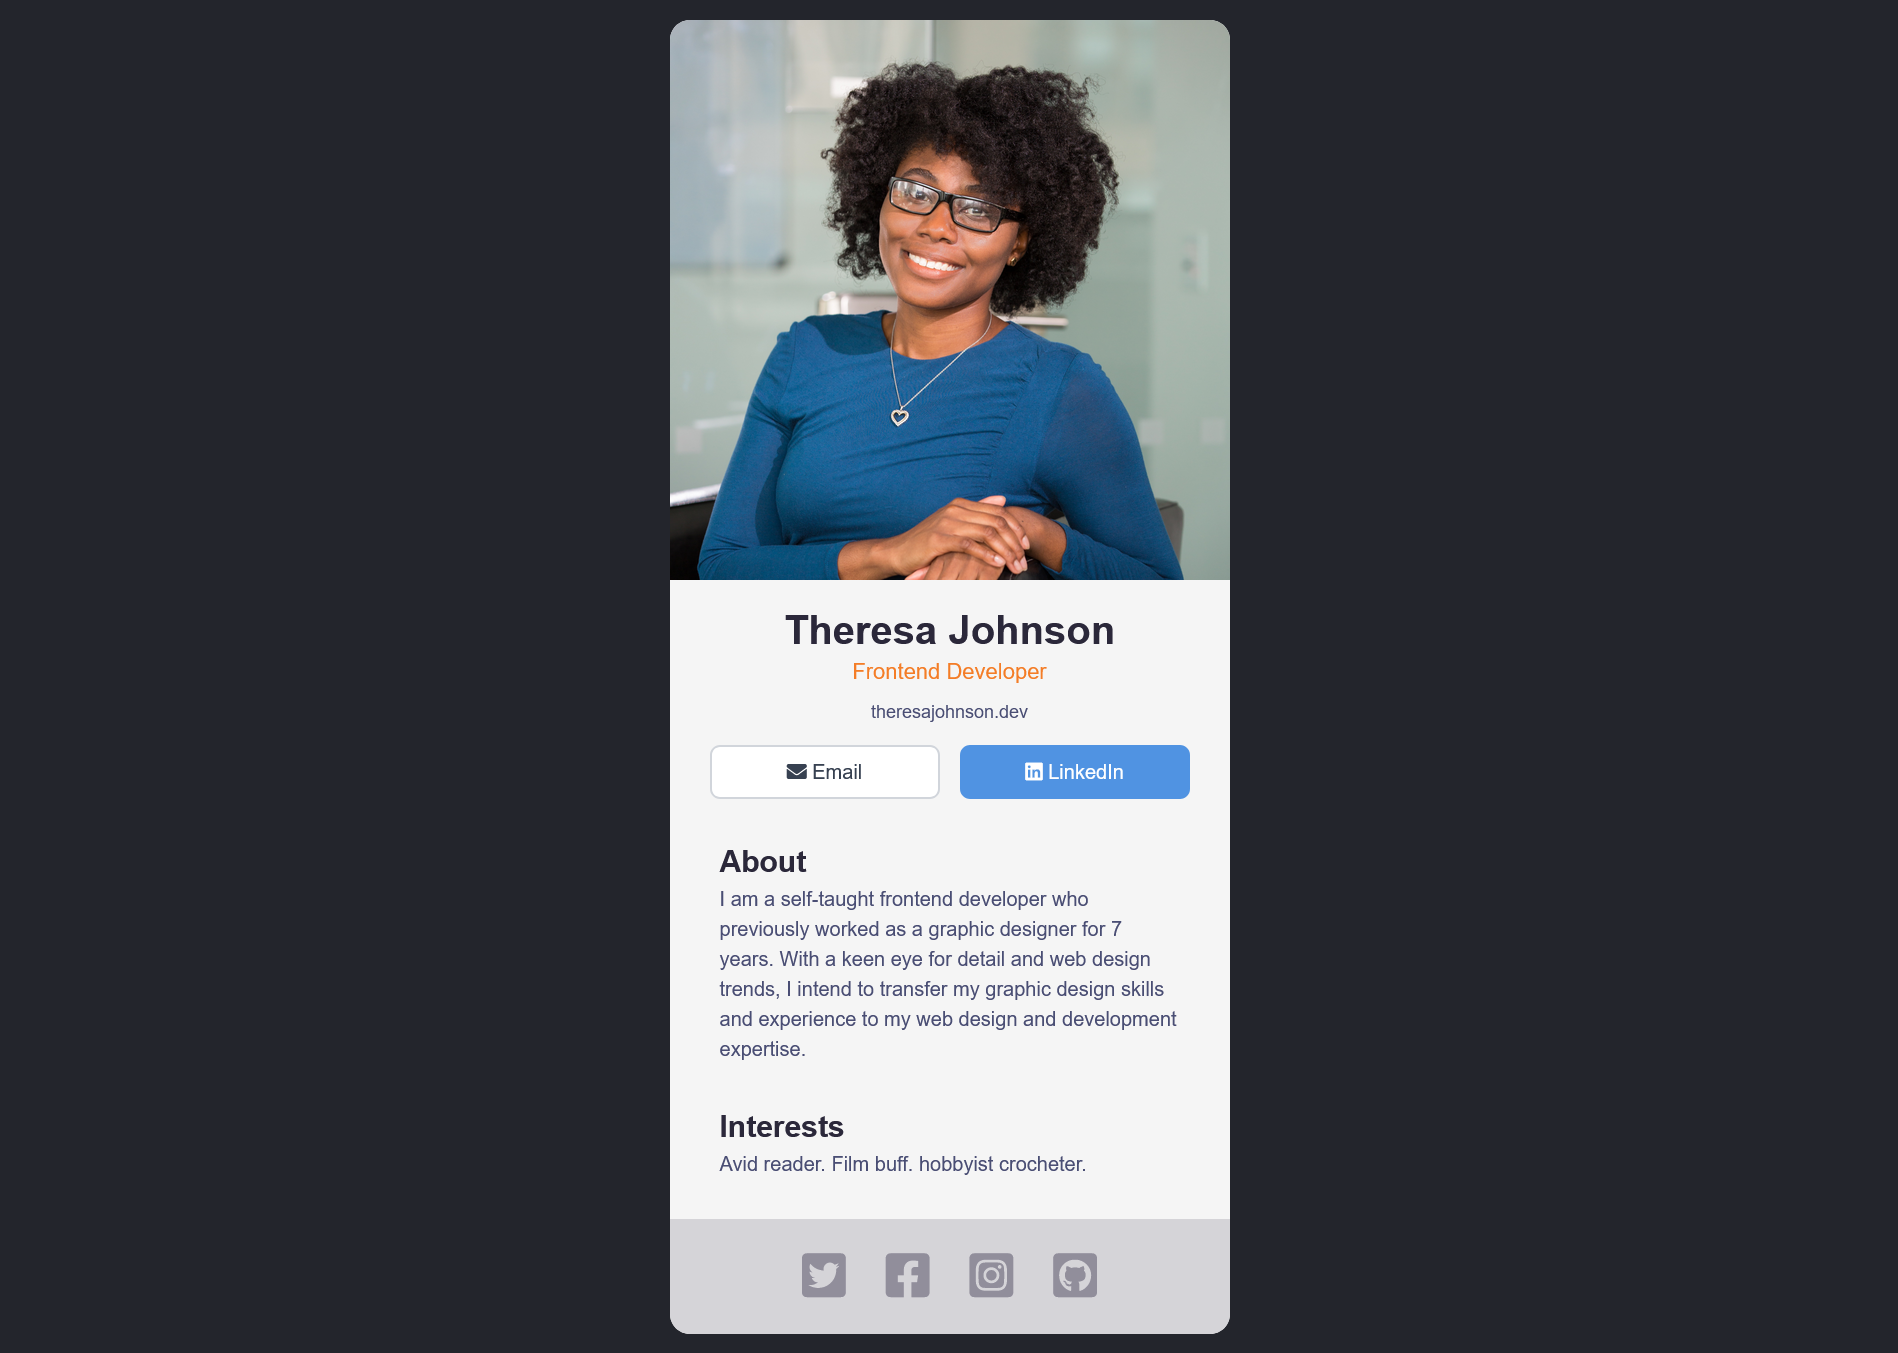
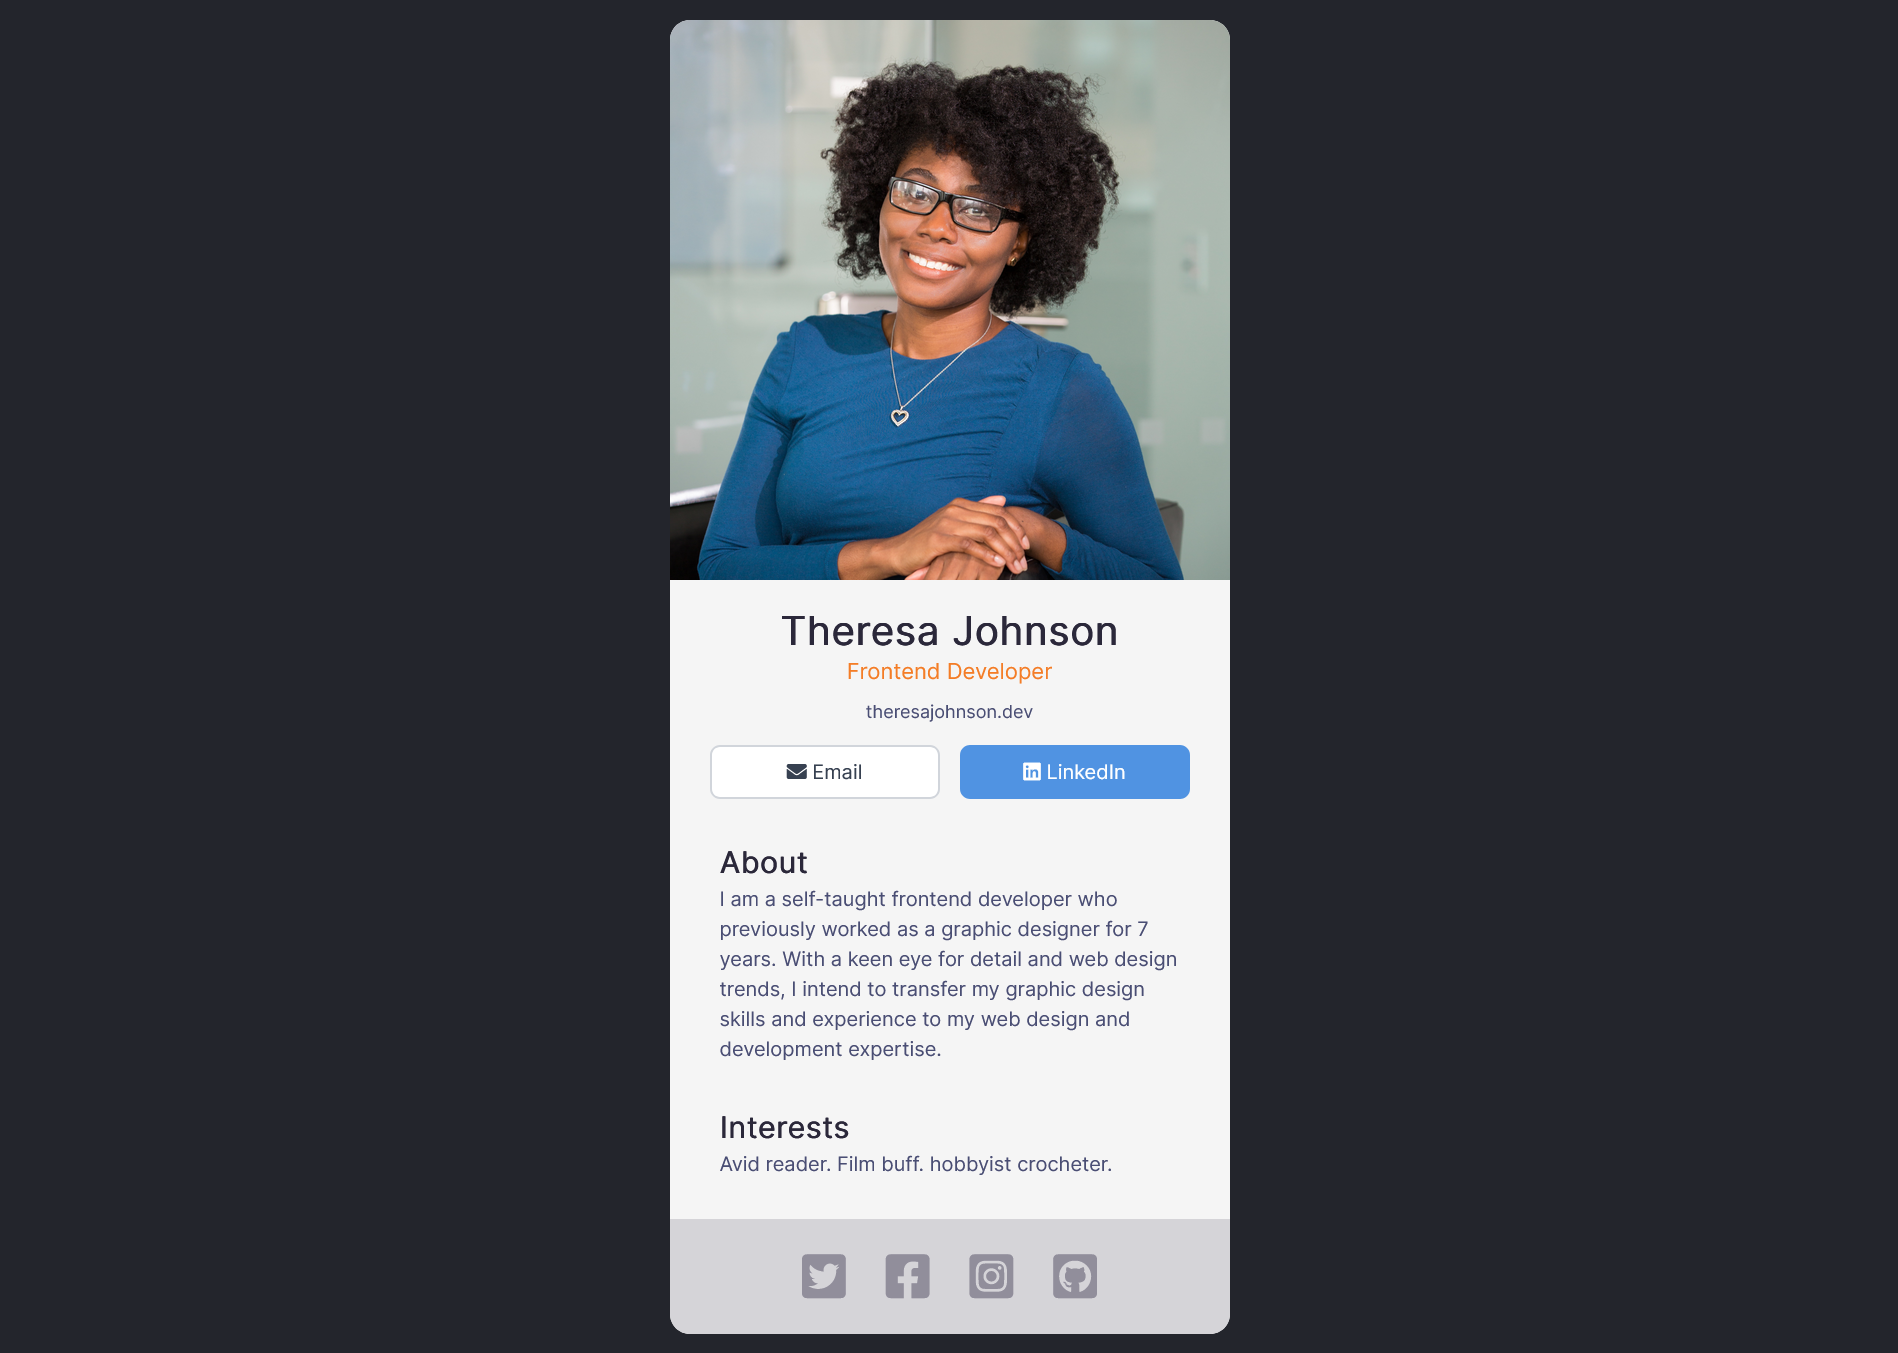
Changed fonts

diff --git a/2-travel-journal/index.html b/2-travel-journal/index.html
@@ -6,7 +6,7 @@
         <meta name="viewport" content="width=device-width, initial-scale=1.0" />
 
         <link rel="stylesheet" href="https://use.fontawesome.com/releases/v5.15.1/css/all.css">
-        <link rel="stylesheet" href="https://fonts.googleapis.com/css?family=Noto+Sans&display=swap">
+        <link rel="stylesheet" href="https://fonts.googleapis.com/css?family=Inter&display=swap">
 
         <title>Travel Journal</title>
     </head>

diff --git a/1-digital-business-card/index.html b/1-digital-business-card/index.html
@@ -5,6 +5,8 @@
         <link rel="icon" type="image/svg+xml" href="/vite.svg" />
         <meta name="viewport" content="width=device-width, initial-scale=1.0" />
         <link rel="stylesheet" href="https://use.fontawesome.com/releases/v5.15.1/css/all.css">
+        <link rel="stylesheet" href="https://fonts.googleapis.com/css?family=Inter&display=swap">
+
         <title>Digital Business Card</title>
     </head>
     <body>

diff --git a/1-digital-business-card/src/App.css b/1-digital-business-card/src/App.css
@@ -21,7 +21,7 @@
 
 body {
     font-size: 1rem;
-    font-family: 'Source Pro', Arial, Helvetica, sans-serif;
+    font-family: 'Inter', Arial, Helvetica, sans-serif;
     background: var(--body-bg);
     color: var(--body-text-color);
 }
@@ -34,6 +34,7 @@ body {
 
 h1 {
     color: var(--title-color);
+    font-weight: 700;
 }
 
 h2 {

diff --git a/2-travel-journal/src/App.css b/2-travel-journal/src/App.css
@@ -6,7 +6,7 @@
 }
 
 body {
-    font-family: 'Noto Sans', Arial, Helvetica, sans-serif;
+    font-family: 'Inter', Arial, Helvetica, sans-serif;
     color: var(--text-color);
 }
 
